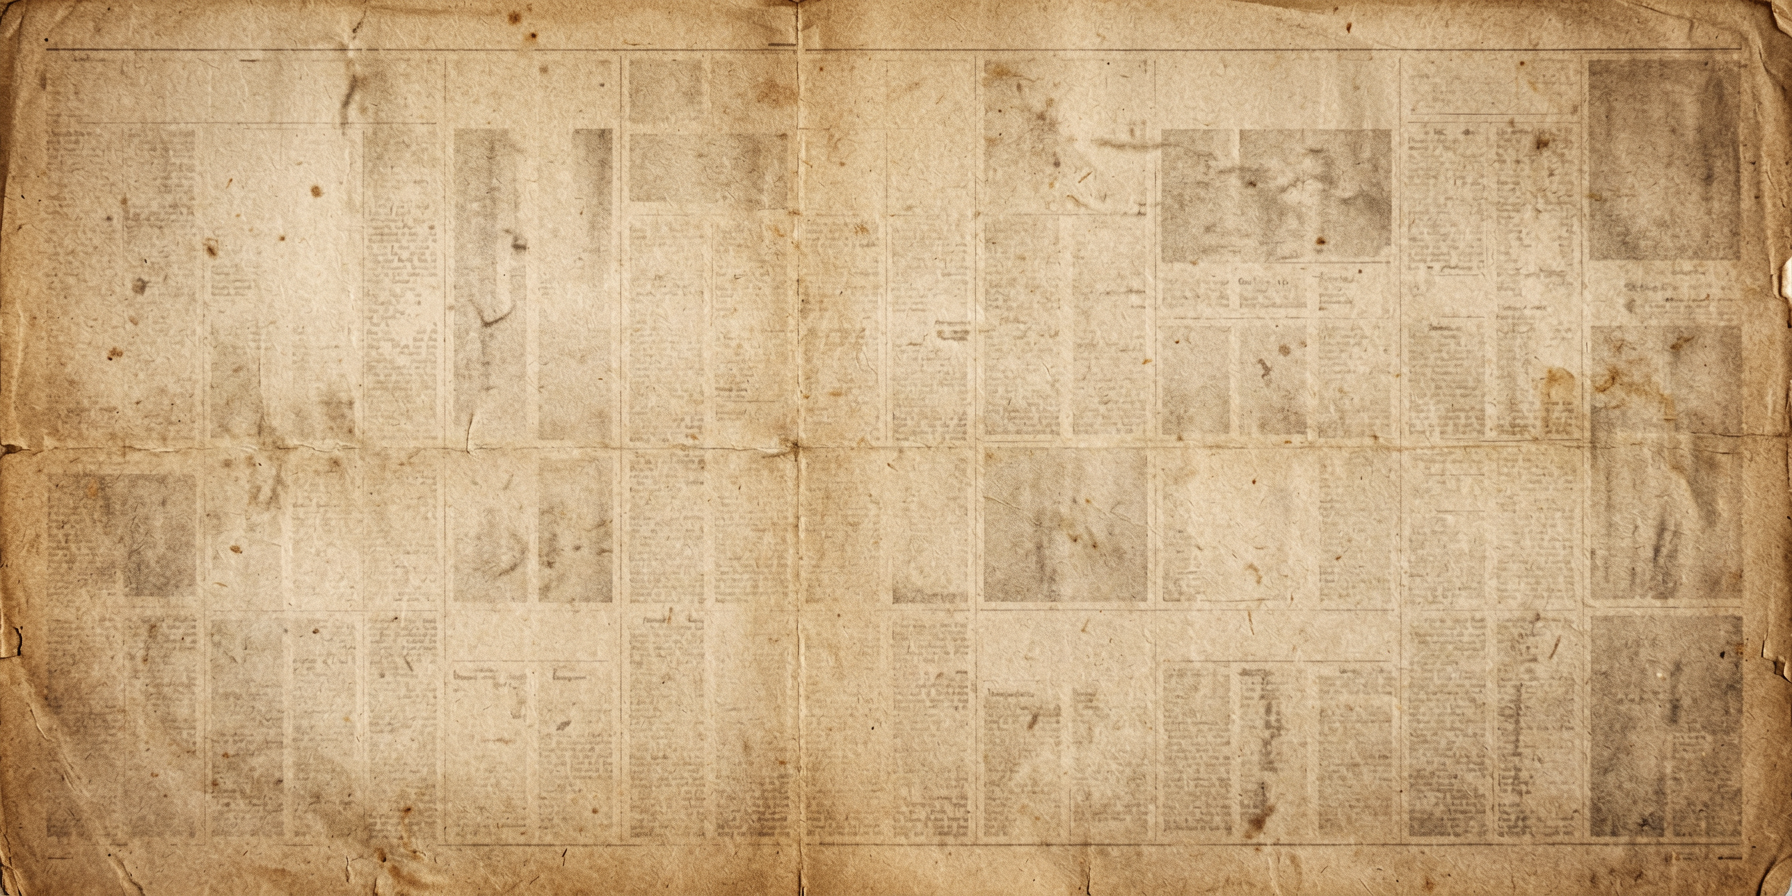
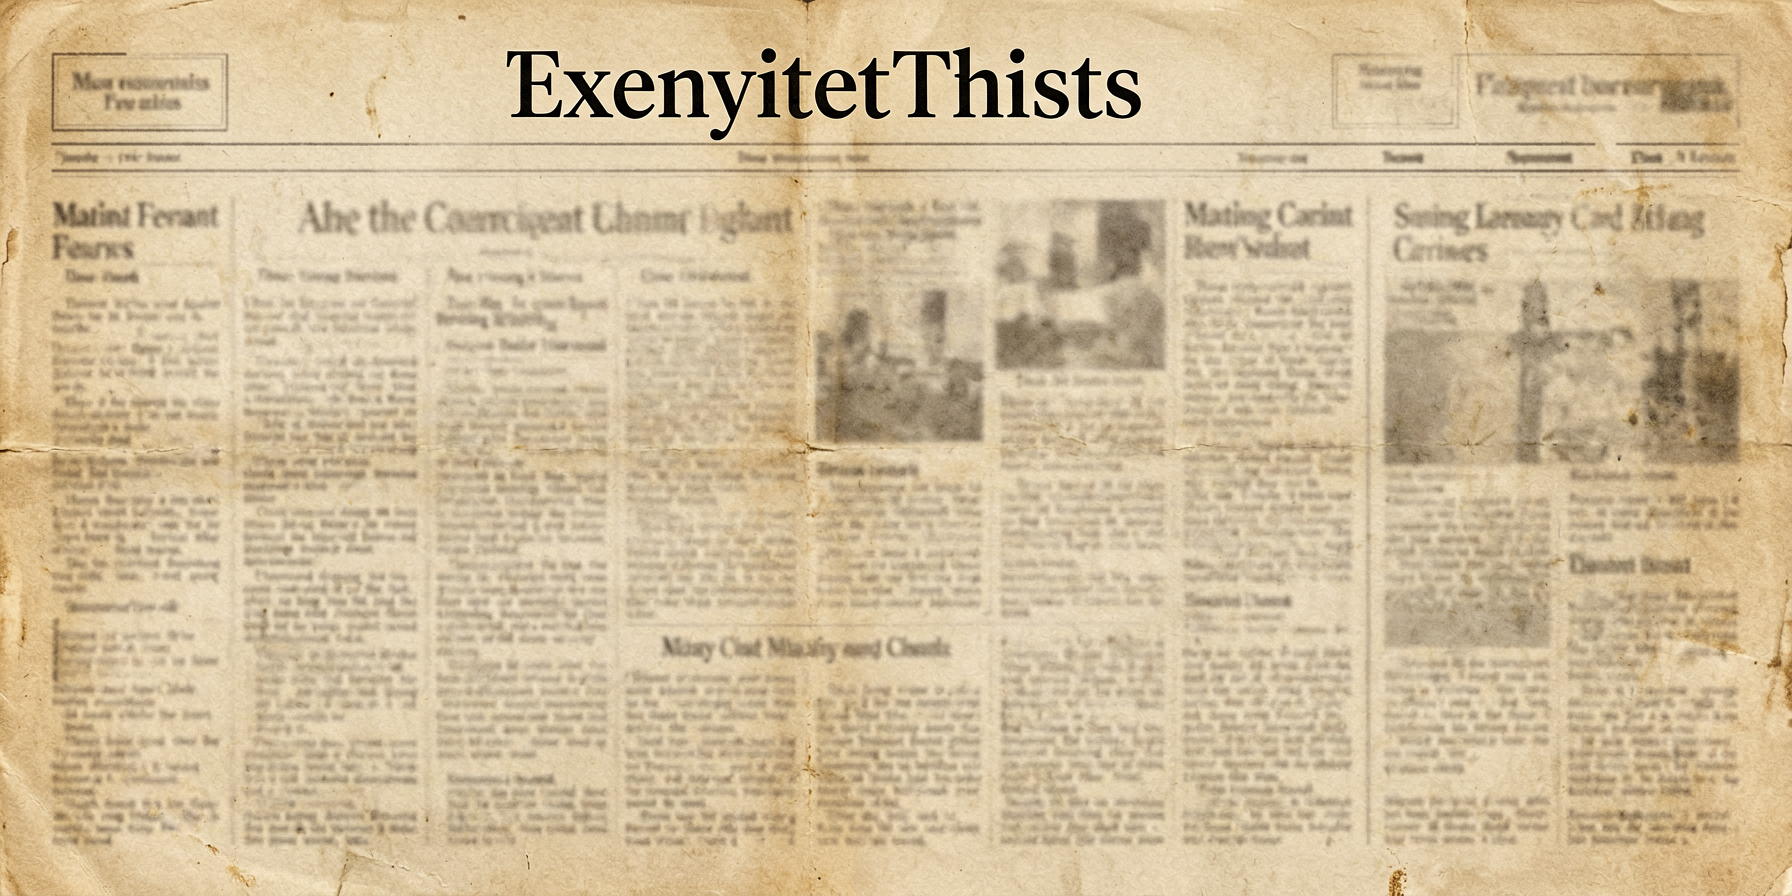
fix: use user's image with CSS crop to hide top text title

diff --git a/src/app/[lang]/news/page.tsx b/src/app/[lang]/news/page.tsx
@@ -58,8 +58,8 @@ export default function NewsPage() {
   return (
     <div className="bg-white min-h-screen">
       <section className="relative bg-gray-900 overflow-hidden">
-        <div className="absolute inset-0">
-          <img src="/images/news-banner-bg.png" alt="" className="w-full h-full object-cover" />
+        <div className="absolute inset-0 overflow-hidden">
+          <img src="/images/news-banner-bg.png" alt="" className="w-full h-[130%] object-cover object-[center_18%]" />
         </div>
         <div className="absolute inset-0 bg-gradient-to-br from-gray-900/85 via-gray-800/75 to-gray-900/85" />
         <div className="absolute inset-0 opacity-5" style={{ backgroundImage: 'radial-gradient(circle at 30% 40%, #22c55e 0%, transparent 50%), radial-gradient(circle at 70% 60%, #5b5bff 0%, transparent 50%)' }} />
